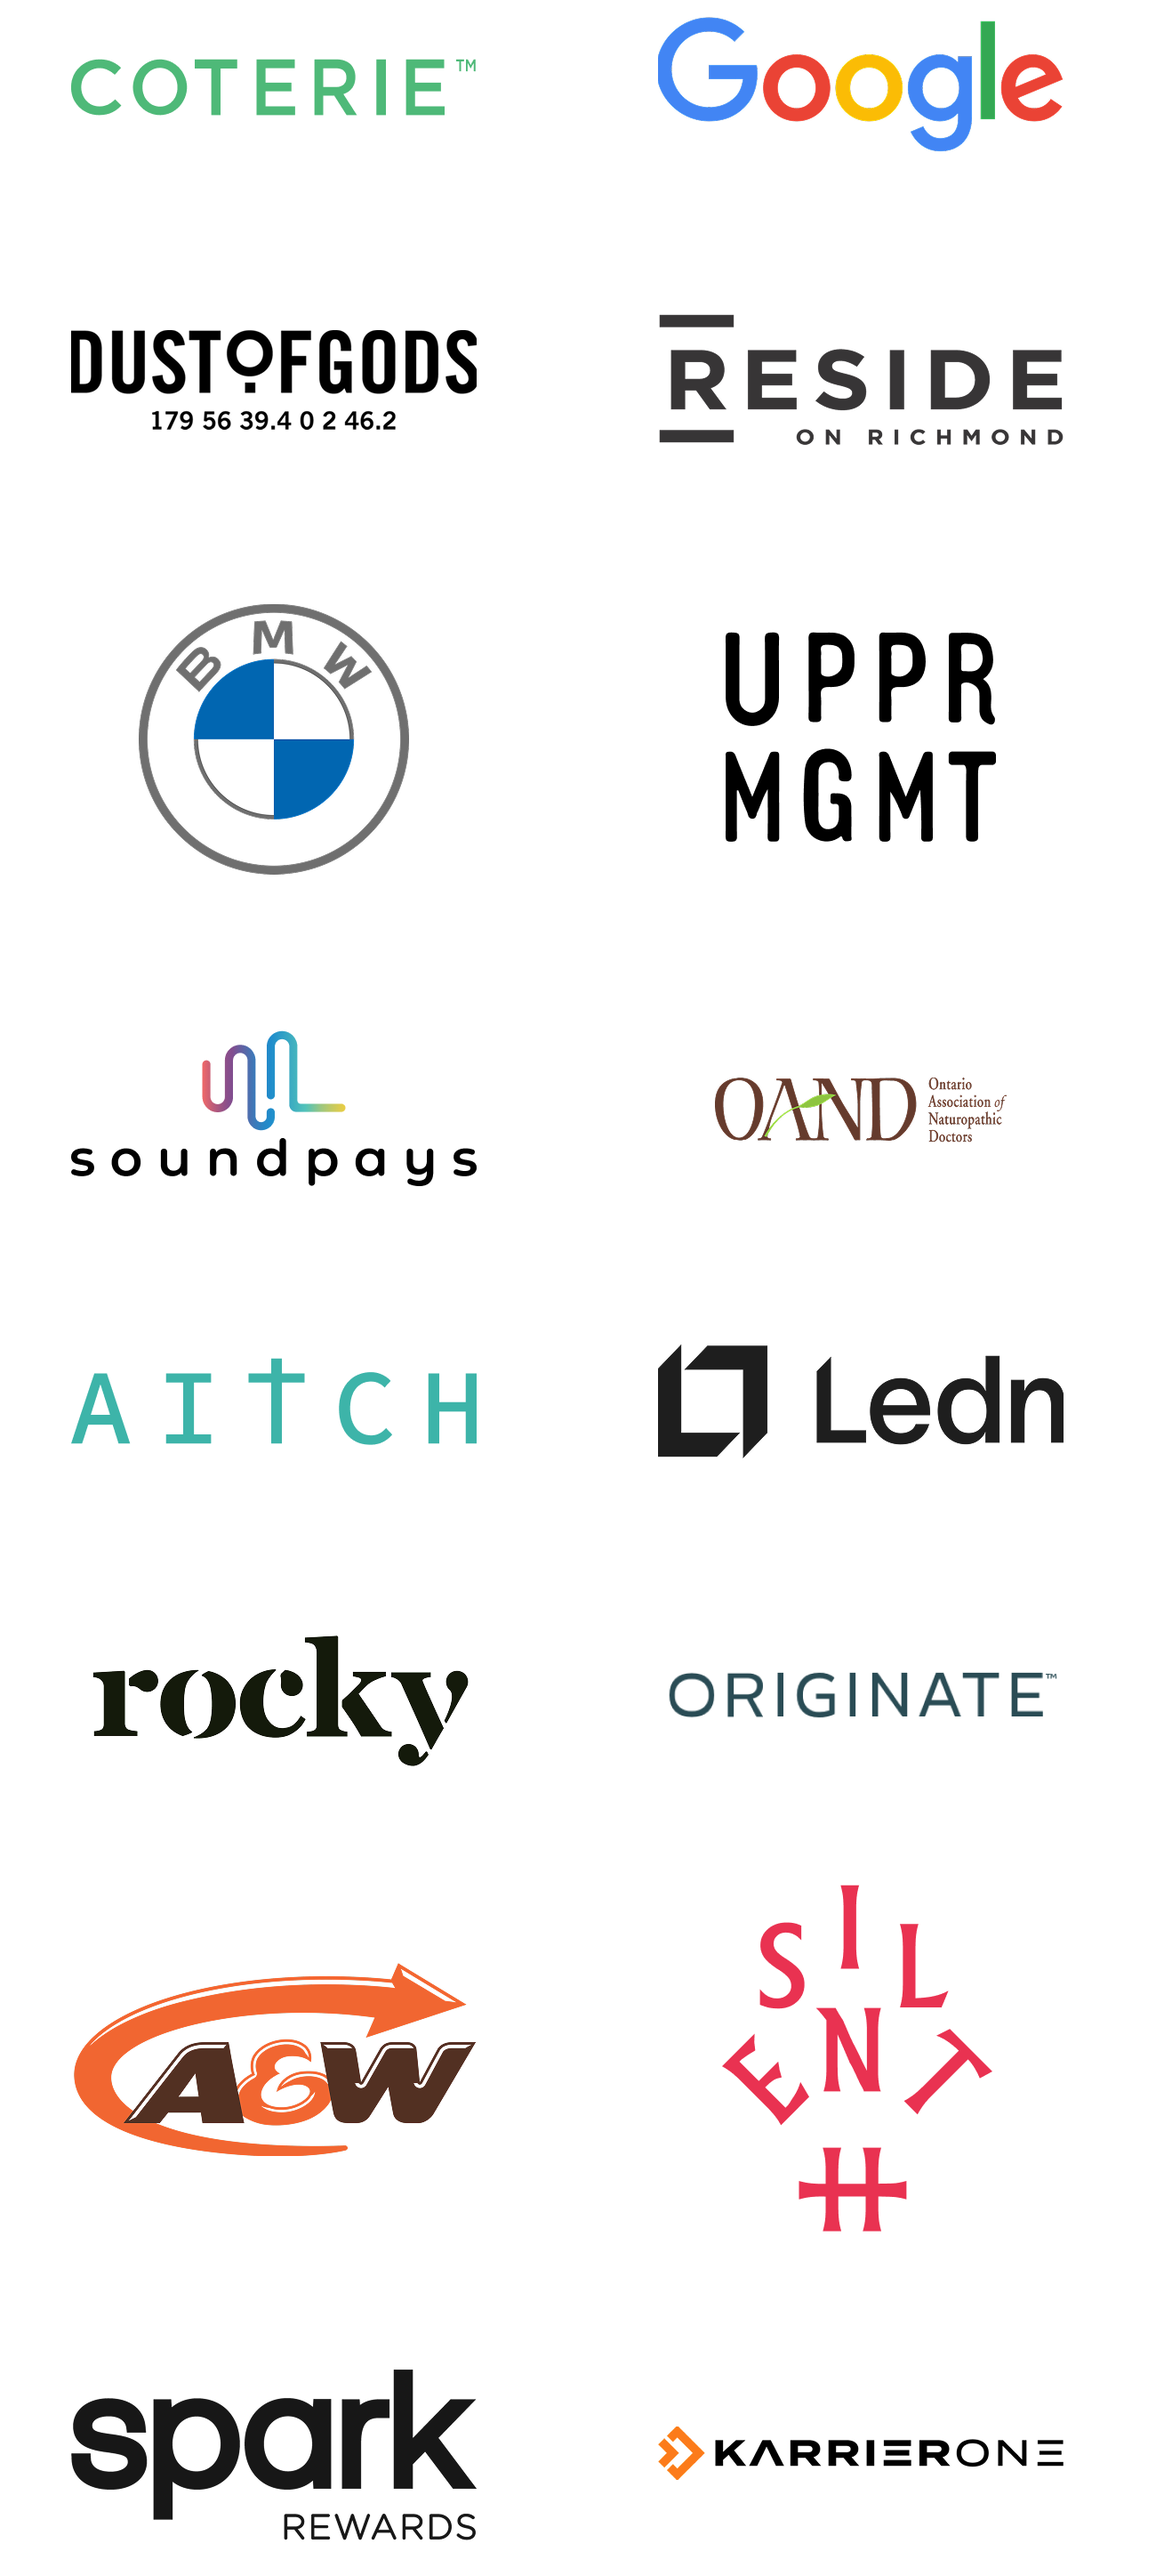
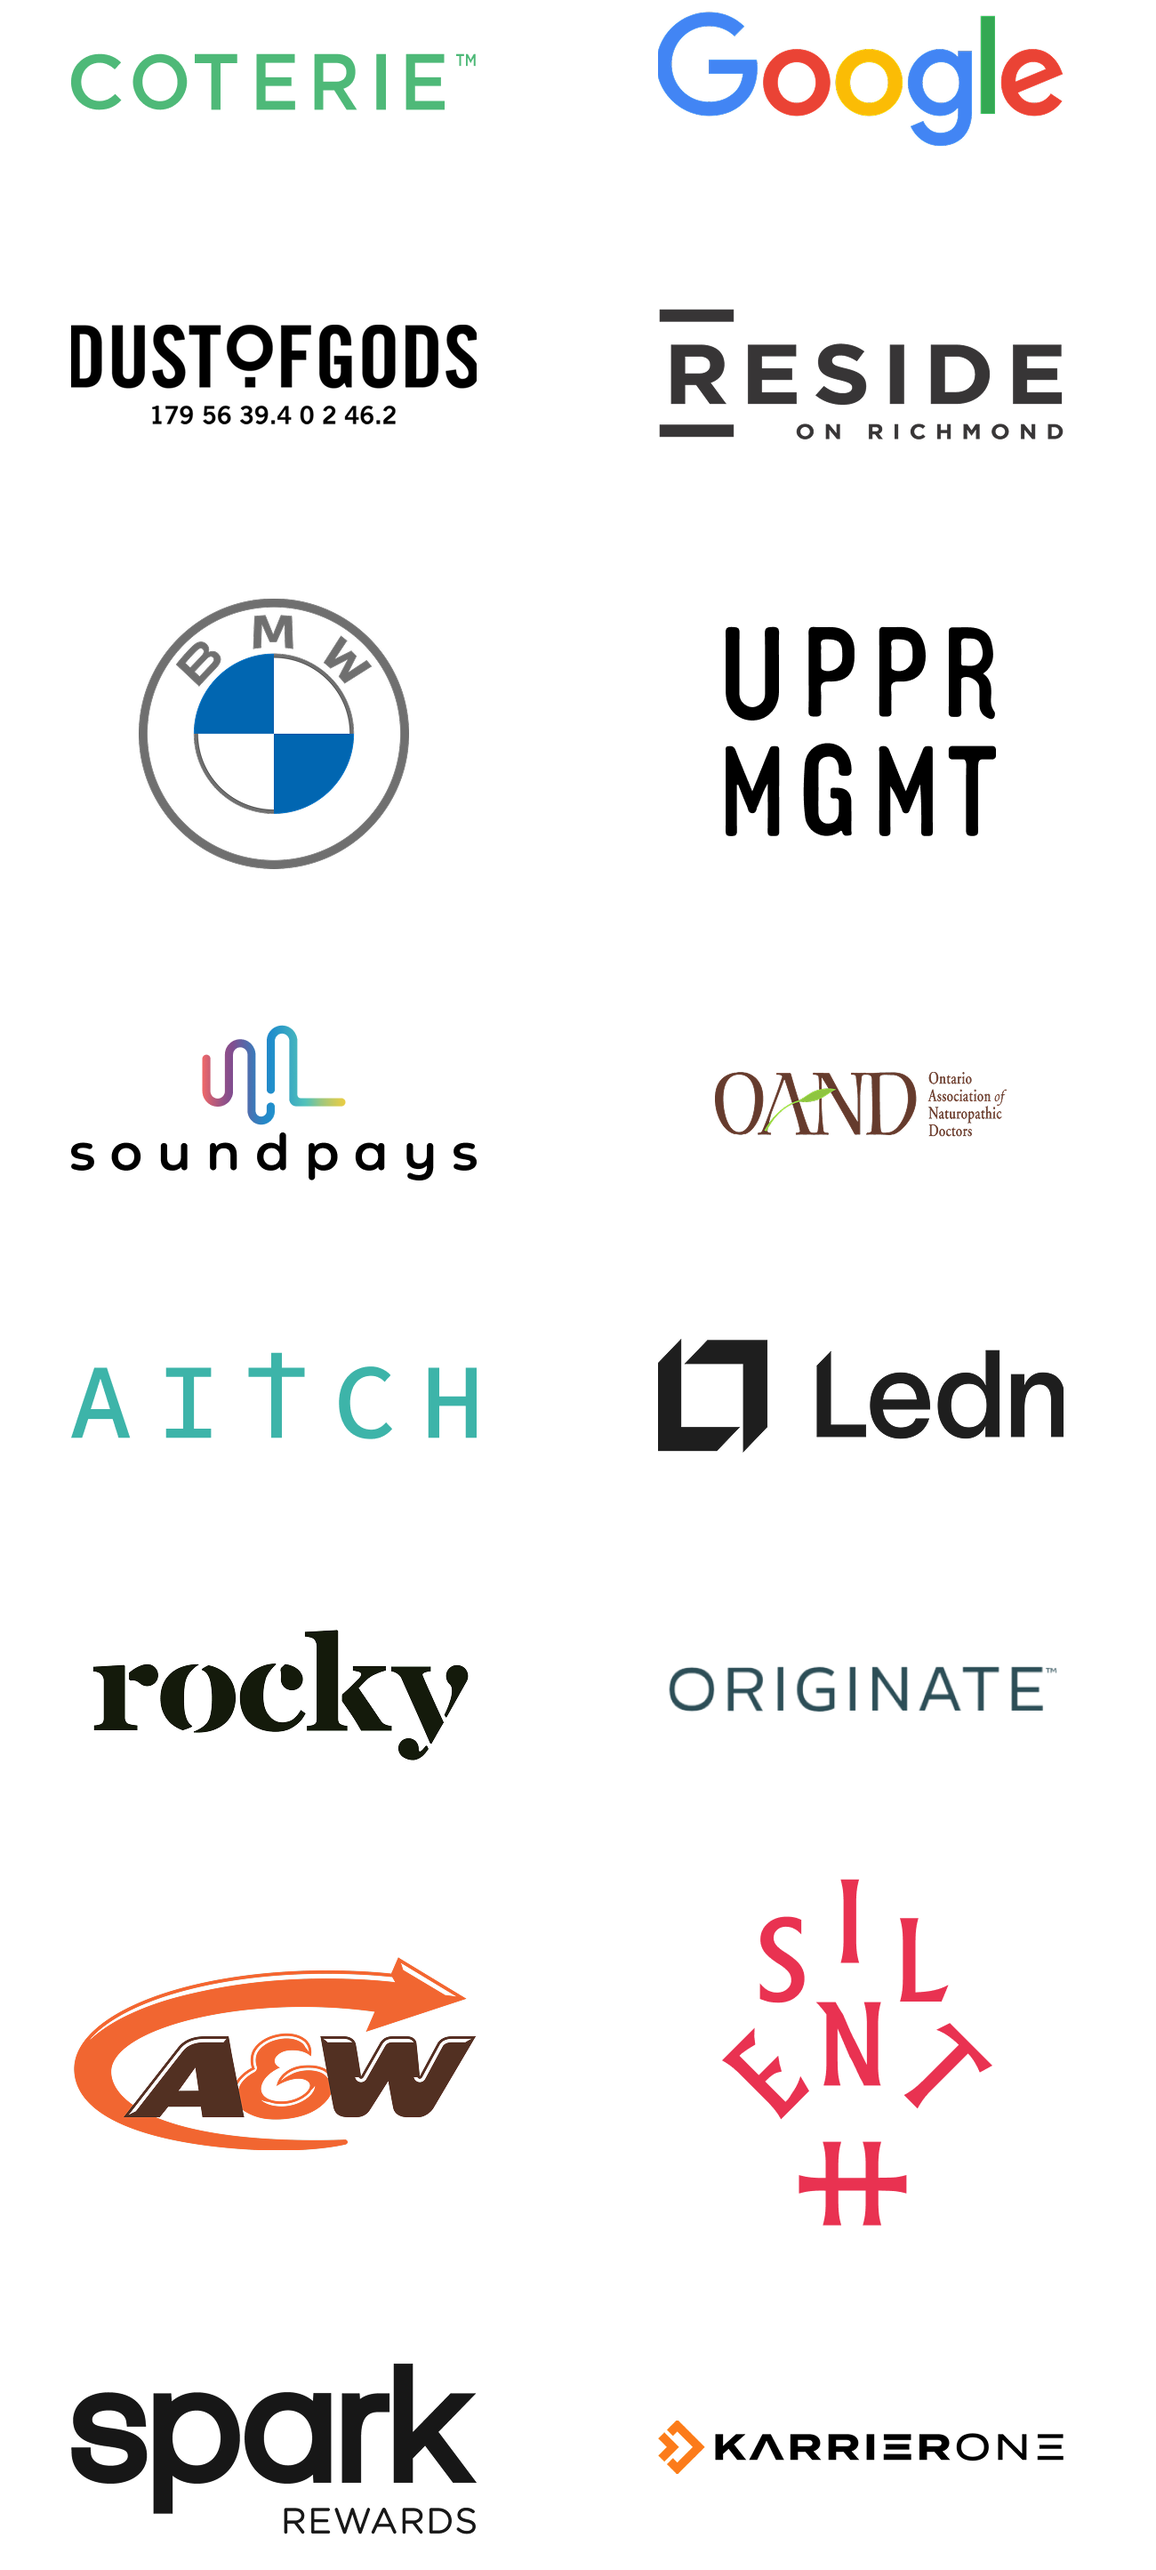
updated mobile affiliates

diff --git a/src/imports/SilentHWebsiteHomeDesktop1280.tsx b/src/imports/SilentHWebsiteHomeDesktop1280.tsx
@@ -17,7 +17,7 @@ import HeroSec from "./HeroSec";
 import BackToTop from "./BackToTop";
 import MobileHero from "./MobileHero";
 import TextLogo from "./TextLogo";
-import MobileAuthors from "../assets/AffiliatesMobNew.png";
+import MobileAuthors from "../assets/MobileAuthors.png";
 /*import Vid1 from "../assets/Vid1FinalCompress.mp4";
 import Vid2 from "../assets/Vid2-compressed.mp4";
 import Vid3 from "../assets/Vid3-compressed.mp4";
